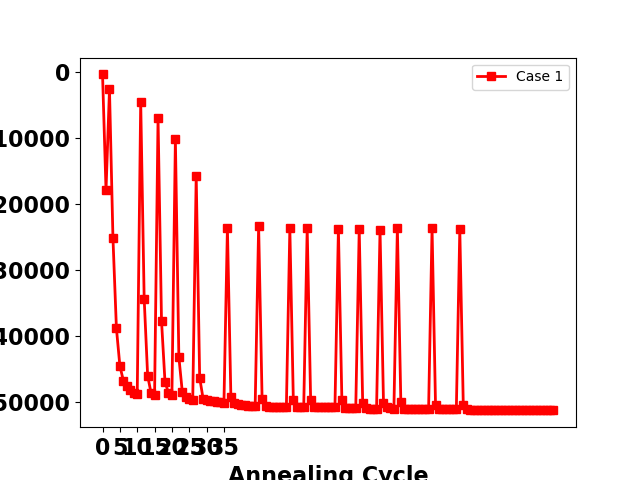
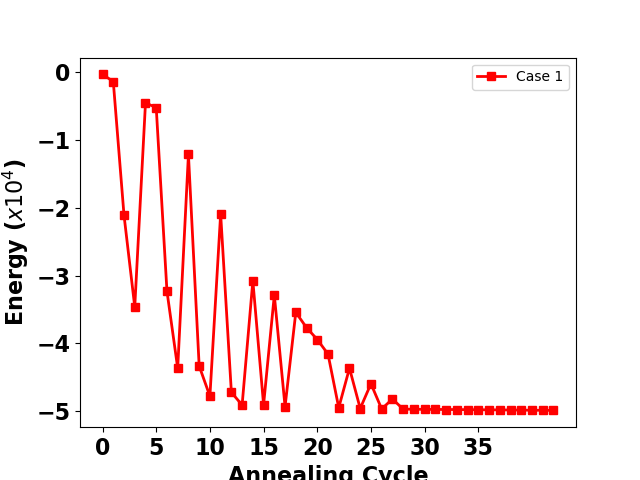
smile face done

diff --git a/Ising_computation_SA.py b/Ising_computation_SA.py
@@ -383,7 +383,7 @@ def ising_test_data():
 
     # num_flip = [2200, 1000, 800, 1500, 300, 900, 500, 500, 200, 400, 230, 100, 30, 50, 10, 30]
     for i in range(N_trials*2):
-        T = T_max * math.exp(T_factor * i / 400)  # exponential cooling schedule
+        T = T_max * math.exp(T_factor * i / 300)  # exponential cooling schedule
         probability.append(math.exp(-0.01 / T))
         # print("probability = ", len(probability))
         # num_flip = 6000 * probability
@@ -396,10 +396,10 @@ def ising_test_data():
 
 
         if i==0:
-            this_spin, KPI, H_sigma_array = Ising_start(initial_spin, J, rows, cols, 2, Ising_KPI)
+            this_spin, KPI, H_sigma_array = Ising_start(initial_spin, J, rows, cols, 1, Ising_KPI)
         else:
             # print("next spin =",next_spin)
-            this_spin, KPI, H_sigma_array = Ising_start(next_spin, J, rows, cols, random.randint(1, 10), Ising_KPI)
+            this_spin, KPI, H_sigma_array = Ising_start(next_spin, J, rows, cols, random.randint(1, 3), Ising_KPI)
         # print pic
         if i%2 == 0:
             plt.imshow(this_spin, cmap='Greys')
@@ -414,21 +414,25 @@ def ising_test_data():
             num_flip = rows*cols * probability[target_index]
             print('target index = ', target_index)
             # print(num_flip)
-        # else:
-        #     num_flip = num_flip-200
+        else:
+            num_flip = num_flip-90+random.randint(-10,30)
 
-        if i<N_trials-5:
+        if i<N_trials-6:
             # num_flip = rows*cols * probability[i]
             # print('target index = ', target_index)
             print(num_flip)
             next_spin = annealing_ver2(i, int(num_flip), this_spin, image_size, cols)
         else:
             next_spin = this_spin
+
+    KPI = [x / 10000 for x in KPI]
+
     return KPI
 
 
 
 KPI_test_data = ising_test_data()
+np.savetxt('./saved_energy_data/64x100_smile_face.csv',KPI_test_data,delimiter="")
 
 
 plt.figure(1)
